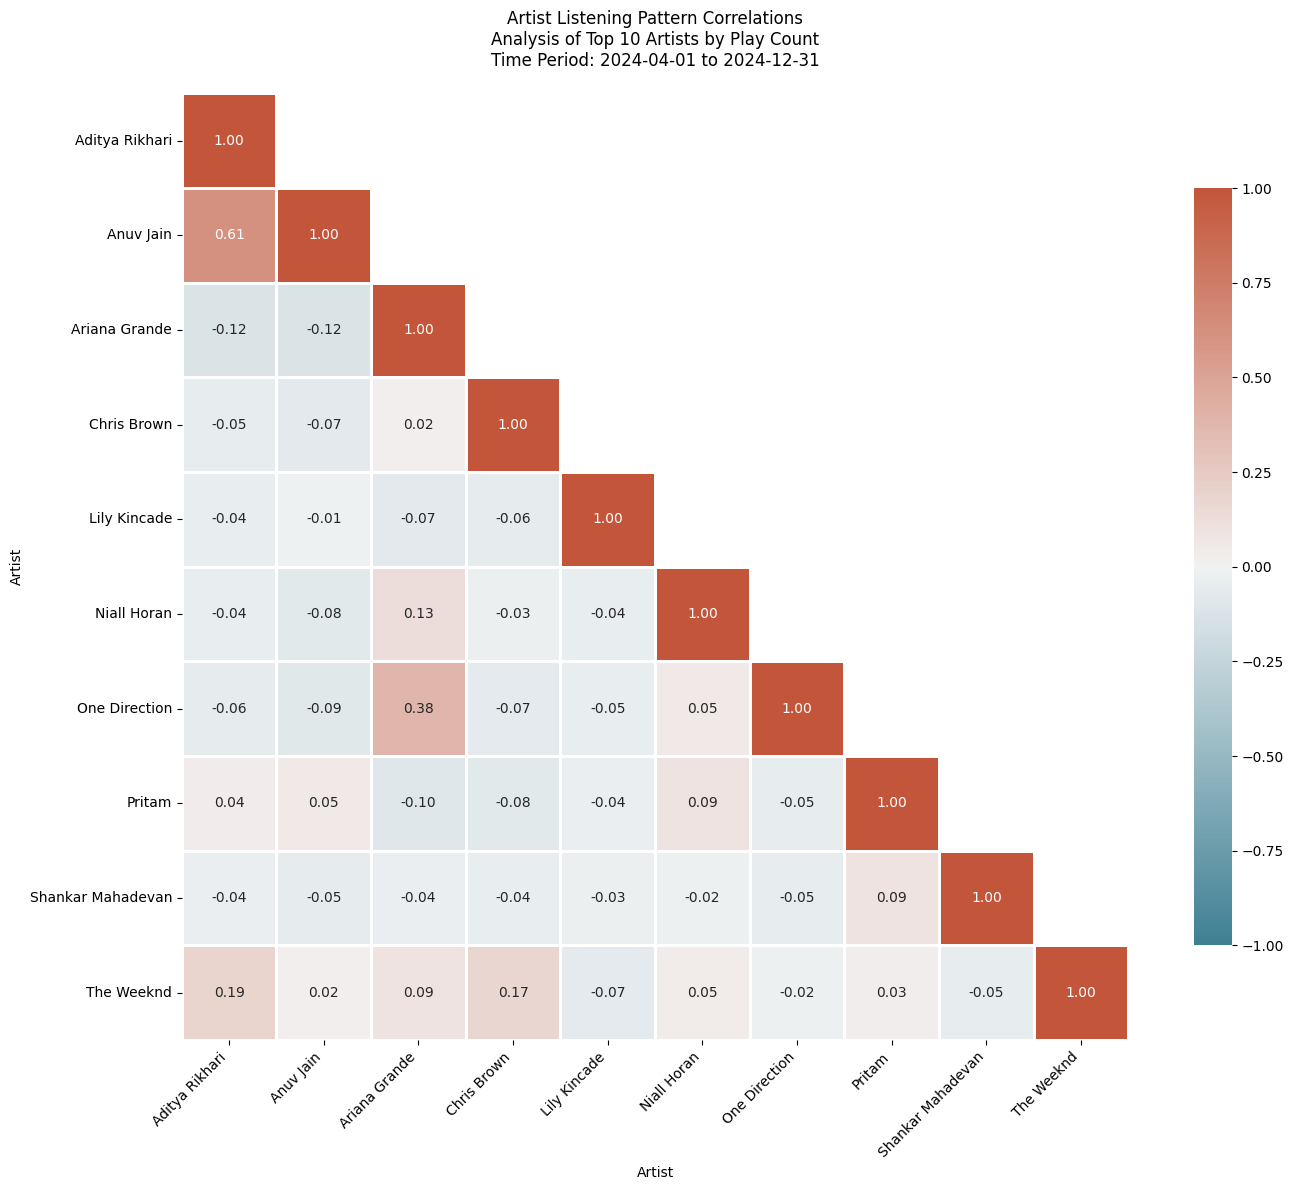
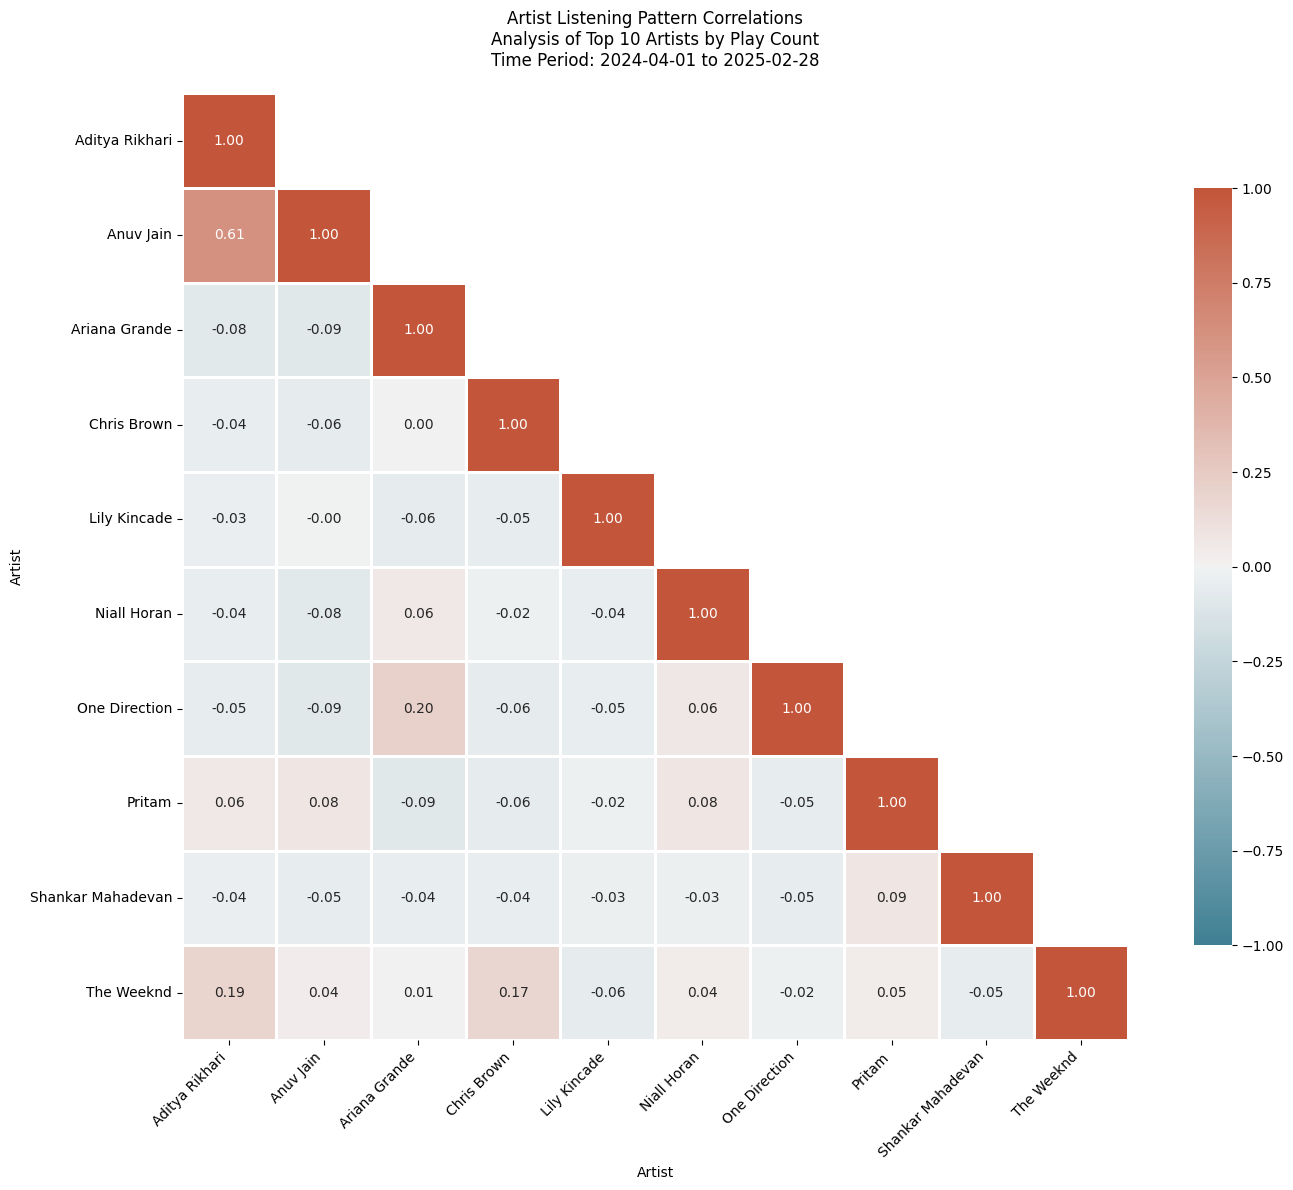
added feb 2025 data

Changed region(s): [[0.2784, 0.5597, 0.3712, 0.6529]]

diff --git a/src/components/Analysis/FavoritesAnalysis.tsx b/src/components/Analysis/FavoritesAnalysis.tsx
@@ -4,19 +4,19 @@ import { Card, CardHeader, CardTitle, CardContent } from '@/components/ui/card';
 import { LineChart, Line, XAxis, YAxis, Tooltip, ResponsiveContainer, BarChart, Bar, Legend, RadialBarChart, RadialBar } from 'recharts';
 
 const topArtists = [
-  { name: "Anuv Jain", plays: 457, peakDate: "2024-06-04", daysPlayed: 112, avgDailyPlays: 1.66, peakPlays: 43 },
-  { name: "Ariana Grande", plays: 399, peakDate: "2024-07-09", daysPlayed: 112, avgDailyPlays: 1.45, peakPlays: 19 },
-  { name: "Pritam", plays: 394, peakDate: "2024-09-24", daysPlayed: 124, avgDailyPlays: 1.43, peakPlays: 17 },
-  { name: "Aditya Rikhari", plays: 393, peakDate: "2024-06-03", daysPlayed: 90, avgDailyPlays: 1.43, peakPlays: 33 },
-  { name: "The Weeknd", plays: 374, peakDate: "2024-05-16", daysPlayed: 104, avgDailyPlays: 1.36, peakPlays: 23 }
+  { name: "Ariana Grande", plays: 659, peakDate: "2025-02-28", daysPlayed: 140, avgDailyPlays: 1.97, peakPlays: 49 },
+  { name: "Anuv Jain", plays: 463, peakDate: "2024-06-04", daysPlayed: 118, avgDailyPlays: 1.39, peakPlays: 43 },
+  { name: "Aditya Rikhari", plays: 408, peakDate: "2024-06-03", daysPlayed: 97, avgDailyPlays: 1.22, peakPlays: 33 },
+  { name: "The Weeknd", plays: 408, peakDate: "2024-05-16", daysPlayed: 121, avgDailyPlays: 1.22, peakPlays: 23 },
+  { name: "Pritam", plays: 404, peakDate: "2024-09-24", daysPlayed: 132, avgDailyPlays: 1.21, peakPlays: 17 },
 ];
 
 const topSongs = [
-  { title: "Faasle", plays: 280, avgDailyPlays: 1.05, peakPlays: 30, daysPlayed: 75, peakDate: "2024-06-03" },
-  { title: "sweet n low", plays: 223, avgDailyPlays: 0.84, peakPlays: 54, daysPlayed: 31, peakDate: "2024-08-09" },
-  { title: "Tu hai kahan", plays: 150, avgDailyPlays: 0.56, peakPlays: 10, daysPlayed: 67, peakDate: "2024-05-02" },
-  { title: "Arcade", plays: 133, avgDailyPlays: 0.50, peakPlays: 24, daysPlayed: 44, peakDate: "2024-04-07" },
-  { title: "Daylight", plays: 125, avgDailyPlays: 0.47, peakPlays: 26, daysPlayed: 34, peakDate: "2024-06-22" }
+  { title: "Faasle", plays: 293, avgDailyPlays: 0.88, peakPlays: 30, daysPlayed: 82, peakDate: "2024-06-03" },
+  { title: "sweet n low", plays: 224, avgDailyPlays: 0.67, peakPlays: 54, daysPlayed: 32, peakDate: "2024-08-09" },
+  { title: "Tu hai kahan", plays: 150, avgDailyPlays: 0.45, peakPlays: 10, daysPlayed: 67, peakDate: "2024-05-02" },
+  { title: "Arcade", plays: 137, avgDailyPlays: 0.41, peakPlays: 24, daysPlayed: 47, peakDate: "2024-04-07" },
+  { title: "Daylight", plays: 136, avgDailyPlays: 0.41, peakPlays: 26, daysPlayed: 43, peakDate: "2024-06-22" }
 ];
 
 const monthlyTrends = [
@@ -28,17 +28,19 @@ const monthlyTrends = [
   { month: "Sep 2024", plays: 269, uniqueArtists: 5, avgPlays: 53.8, topArtist: "The Local train" },
   { month: "Oct 2024", plays: 288, uniqueArtists: 4, avgPlays: 57.6, topArtist: "Shankar Mahadevan" },
   { month: "Nov 2024", plays: 91, uniqueArtists: 4, avgPlays: 18.2, topArtist: "Aditya Rikhari" },
-  { month: "Dec 2024", plays: 74, uniqueArtists: 5, avgPlays: 14.8, topArtist: "Lady Gaga" }
+  { month: "Dec 2024", plays: 74, uniqueArtists: 5, avgPlays: 14.8, topArtist: "Lady Gaga" },
+  { month: "Jan 2025", plays: 120, uniqueArtists: 2, avgPlays: 24.0, topArtist: "Olivia Rodrigo" },
+  { month: "Feb 2025", plays: 100, uniqueArtists: 4, avgPlays: 20.0, topArtist: "Sevdaliza" },
 ];
 
 const loyalArtists = [
-  { name: "Lily Kincade", score: 2.44, playFrequency: 17.8, playsPerDay: 7.31, consistency: 0.07, totalPlays: 234, period: 180 },
-  { name: "Shankar Mahadevan", score: 2.07, playFrequency: 11.9, playsPerDay: 6.17, consistency: 0.08, totalPlays: 179, period: 243 },
-  { name: "Niall Horan", score: 1.92, playFrequency: 24.2, playsPerDay: 5.49, consistency: 0.10, totalPlays: 258, period: 194 }
+  { name: "Lily Kincade", score: 2.37, playFrequency: 16.1, playsPerDay: 7.12, consistency: 0.07, totalPlays: 235, period: 205 },
+  { name: "Shankar Mahadevan", score: 2.07, playFrequency: 11.1, playsPerDay: 6.18, consistency: 0.08, totalPlays: 210, period: 306 },
+  { name: "Ariana Grande", score: 1.76, playFrequency: 42.0, playsPerDay: 5.71, consistency: 0.12, totalPlays: 659, period: 333 }
 ];
 
 const FavoritesAnalysis = () => {
-  const totalPlays = monthlyTrends.reduce((sum, month) => sum + month.plays, 0);
+  const totalPlays = 10362;
   const peakMonth = monthlyTrends.reduce((max, month) => month.plays > max.plays ? month : max);
 
   return (

diff --git a/src/components/Analysis/TimeSeriesAnalysis.tsx b/src/components/Analysis/TimeSeriesAnalysis.tsx
@@ -14,7 +14,9 @@ const monthlyData = [
   { month: 'Sep', plays: 1015 },
   { month: 'Oct', plays: 1058 },
   { month: 'Nov', plays: 834 },
-  { month: 'Dec', plays: 848 }
+  { month: 'Dec', plays: 848 },
+  { month: 'Jan', plays: 635 },
+  { month: 'Feb', plays: 811 },
 ];
 
 // Real weekly data
@@ -30,36 +32,36 @@ const weeklyData = [
 
 // Real hourly data
 const hourlyData = [
-  { hour: '12 AM', plays: 389 },
-  { hour: '1 AM', plays: 448 },
-  { hour: '2 AM', plays: 302 },
-  { hour: '3 AM', plays: 122 },
-  { hour: '4 AM', plays: 35 },
-  { hour: '5 AM', plays: 33 },
-  { hour: '6 AM', plays: 25 },
-  { hour: '7 AM', plays: 74 },
-  { hour: '8 AM', plays: 121 },
-  { hour: '9 AM', plays: 222 },
-  { hour: '10 AM', plays: 266 },
-  { hour: '11 AM', plays: 285 },
-  { hour: '12 PM', plays: 555 },
-  { hour: '1 PM', plays: 618 },
-  { hour: '2 PM', plays: 690 },
-  { hour: '3 PM', plays: 570 },
-  { hour: '4 PM', plays: 612 },
-  { hour: '5 PM', plays: 586 },
-  { hour: '6 PM', plays: 507 },
-  { hour: '7 PM', plays: 542 },
-  { hour: '8 PM', plays: 577 },
-  { hour: '9 PM', plays: 450 },
-  { hour: '10 PM', plays: 460 },
-  { hour: '11 PM', plays: 427 }
+  { hour: '12 AM', plays: 436},
+  { hour: '1 AM', plays: 472},
+  { hour: '2 AM', plays: 333},
+  { hour: '3 AM', plays: 140},
+  { hour: '4 AM', plays: 35},
+  { hour: '5 AM', plays: 33},
+  { hour: '6 AM', plays: 25},
+  { hour: '7 AM', plays: 113},
+  { hour: '8 AM', plays: 137},
+  { hour: '9 AM', plays: 254},
+  { hour: '10 AM', plays: 292},
+  { hour: '11 AM', plays: 406},
+  { hour: '12 PM', plays: 639},
+  { hour: '1 PM', plays: 700},
+  { hour: '2 PM', plays: 844},
+  { hour: '3 PM', plays: 704},
+  { hour: '4 PM', plays: 674},
+  { hour: '5 PM', plays: 635},
+  { hour: '6 PM', plays: 582},
+  { hour: '7 PM', plays: 642},
+  { hour: '8 PM', plays: 635},
+  { hour: '9 PM', plays: 584},
+  { hour: '10 PM', plays: 578},
+  { hour: '11 PM', plays: 469}
 ];
 
 const timeDistribution = [
   { 
     period: "Morning",
-    plays: 993,
+    plays: 1227,
     percentage: Math.round((993 / 8916) * 100),
     description: "6 AM - 12 PM",
     icon: <Sunrise className="w-6 h-6 text-amber-500" />,
@@ -67,7 +69,7 @@ const timeDistribution = [
   },
   {
     period: "Afternoon",
-    plays: 3631,
+    plays: 4196,
     percentage: Math.round((3631 / 8916) * 100),
     description: "12 PM - 6 PM",
     icon: <Sun className="w-6 h-6 text-orange-500" />,
@@ -75,7 +77,7 @@ const timeDistribution = [
   },
   {
     period: "Evening",
-    plays: 2963,
+    plays: 3490,
     percentage: Math.round((2963 / 8916) * 100),
     description: "6 PM - 12 AM",
     icon: <Sunset className="w-6 h-6 text-indigo-500" />,
@@ -83,7 +85,7 @@ const timeDistribution = [
   },
   {
     period: "Late Night",
-    plays: 1329,
+    plays: 1449,
     percentage: Math.round((1329 / 8916) * 100),
     description: "12 AM - 6 AM",
     icon: <Moon className="w-6 h-6 text-blue-500" />,

diff --git a/src/components/Analysis/DiscoveryAnalysis.tsx b/src/components/Analysis/DiscoveryAnalysis.tsx
@@ -70,7 +70,7 @@ const DiscoveryAnalysis: React.FC = () => {
         </p>
         <Alert className="bg-blue-50 border-blue-200">
           <AlertDescription>
-            Analysis period: April to December 2024 | Data source: Last.fm integration with Spotify
+            Analysis period: April 2024 to February 2025 | Data source: Last.fm integration with Spotify
           </AlertDescription>
         </Alert>
       </div>

diff --git a/src/components/Header.tsx b/src/components/Header.tsx
@@ -43,7 +43,7 @@ const Header = () => {
               Spotify Listening Analysis
             </h1>
             <p className="mt-1 text-sm sm:text-base text-gray-600">
-              April to December 2024
+              April 2024 to February 2025
             </p>
           </div>
 
